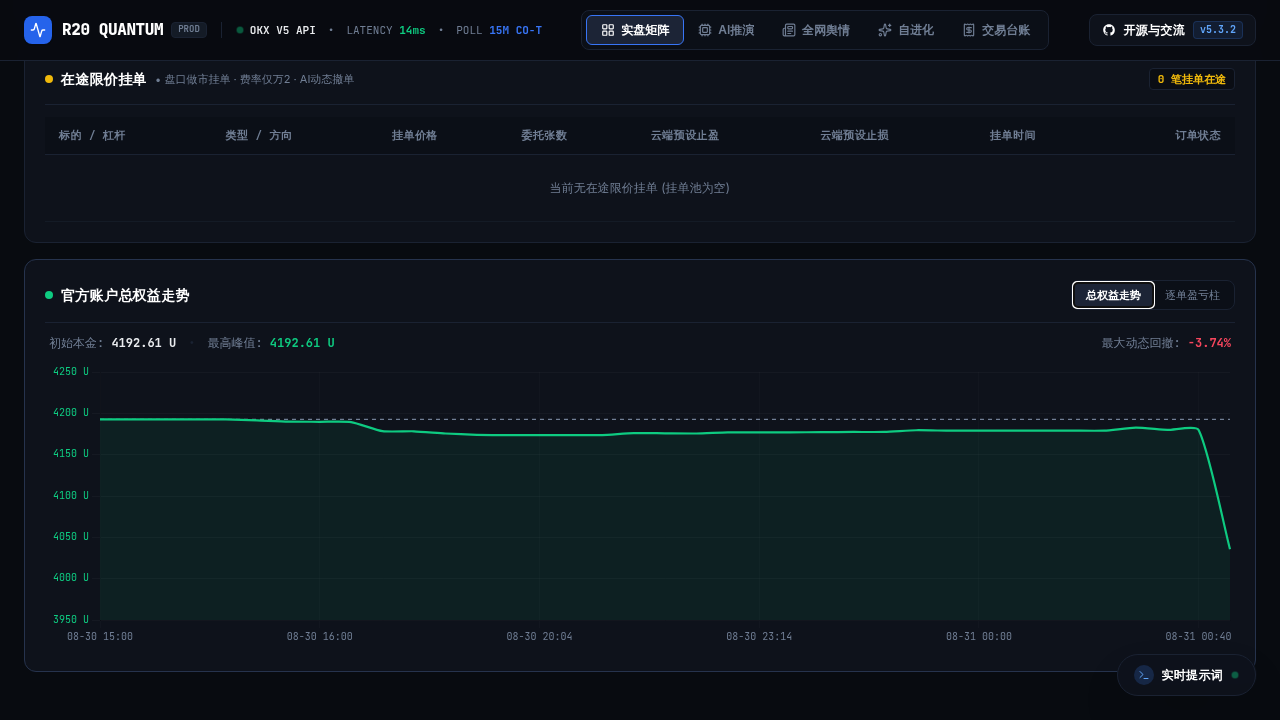
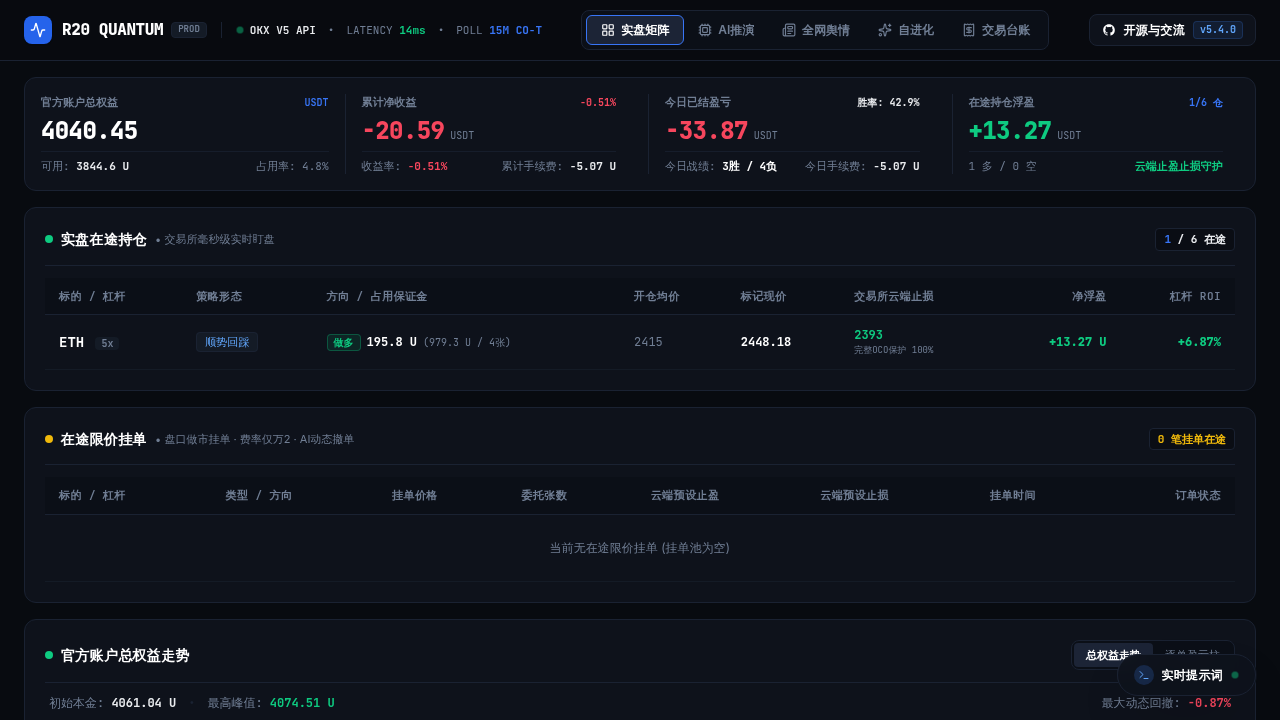
chore(reset): reset monitoring baseline to 2026-08-31 06:57:38 with initial capital 4061.04 USDT

diff --git a/dashboard/templates/index.html b/dashboard/templates/index.html
@@ -1998,7 +1998,7 @@
             if (!ctx) return;
 
             const acc = rawJsonData?.account || {};
-            const initialCapital = Number(acc.initial_capital || 4192.61);
+            const initialCapital = Number(acc.initial_capital || 4061.04);
             const closedTrades = (allTrades || []).filter(t => t.status !== 'holding');
             const points = (snapshots && snapshots.length > 0) ? snapshots : [];
 
@@ -2030,7 +2030,7 @@
             if (currentChartMode === 'equity') {
                 // Ensure we have data to plot
                 const displayPoints = points.length > 0 ? points : [
-                    { time: '2026-08-30 15:00:00', total_eq: initialCapital }
+                    { time: '2026-08-31 06:57:38', total_eq: initialCapital }
                 ];
 
                 const labels = displayPoints.map(p => {
@@ -2065,7 +2065,7 @@
                                 yAxisID: 'y'
                             },
                             {
-                                label: '初始本金基准 (4192.61 U)',
+                                label: '初始本金基准 (4061.04 U)',
                                 data: baselineValues,
                                 borderColor: '#707E94',
                                 borderWidth: 1.2,
@@ -2131,7 +2131,7 @@
                 if (sortedTrades.length === 0) {
                     sortedTrades.push({
                         inst: 'BTC',
-                        close_time: '2026-08-30 15:00:00',
+                        close_time: '2026-08-31 06:57:38',
                         pnl: 0,
                         roi_pct: 0,
                         strategy: '初始基准'
